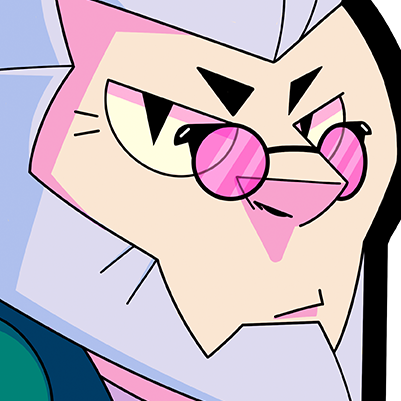
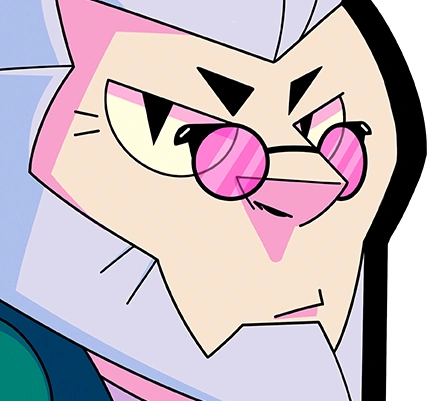
New Brawlers: Finx + Lumi

diff --git a/src/components/PortraitCard.tsx b/src/components/PortraitCard.tsx
@@ -12,8 +12,8 @@ export default function PortraitCard({ portrait }: { portrait: BrawlerPortrait }
     triggerOnce: true
   });
 
-  // Pearl's portrait is narrower than the others...not sure if this will get fixed in the future
-  const objectFit = portrait.name === 'Pearl' ? 'cover' : 'contain';
+  // Couple of portraits are narrower than the others...not sure if this will get fixed in the future
+  const objectFit = ['Pearl', 'Finx'].includes(portrait.name) ? 'cover' : 'contain';
 
   return (
     <Link href={`/${portrait.name}`} draggable={false} className="transition-transform active:scale-95">
